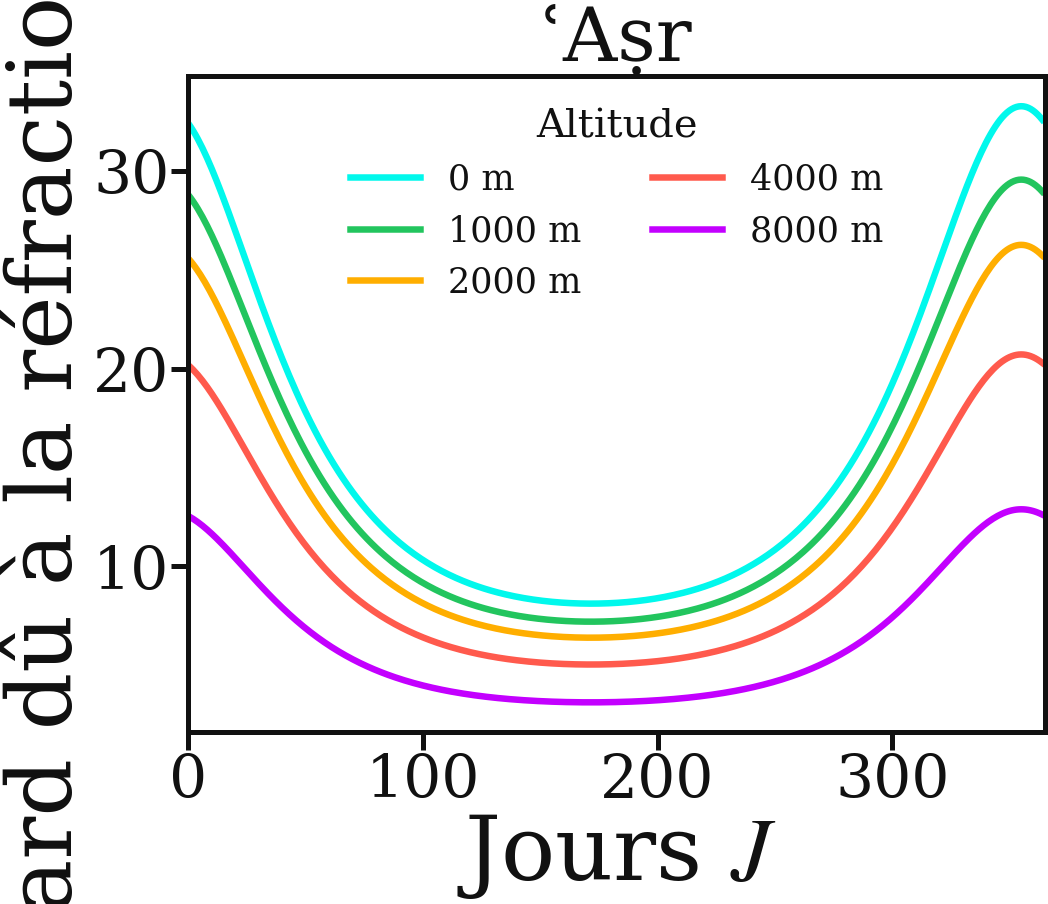
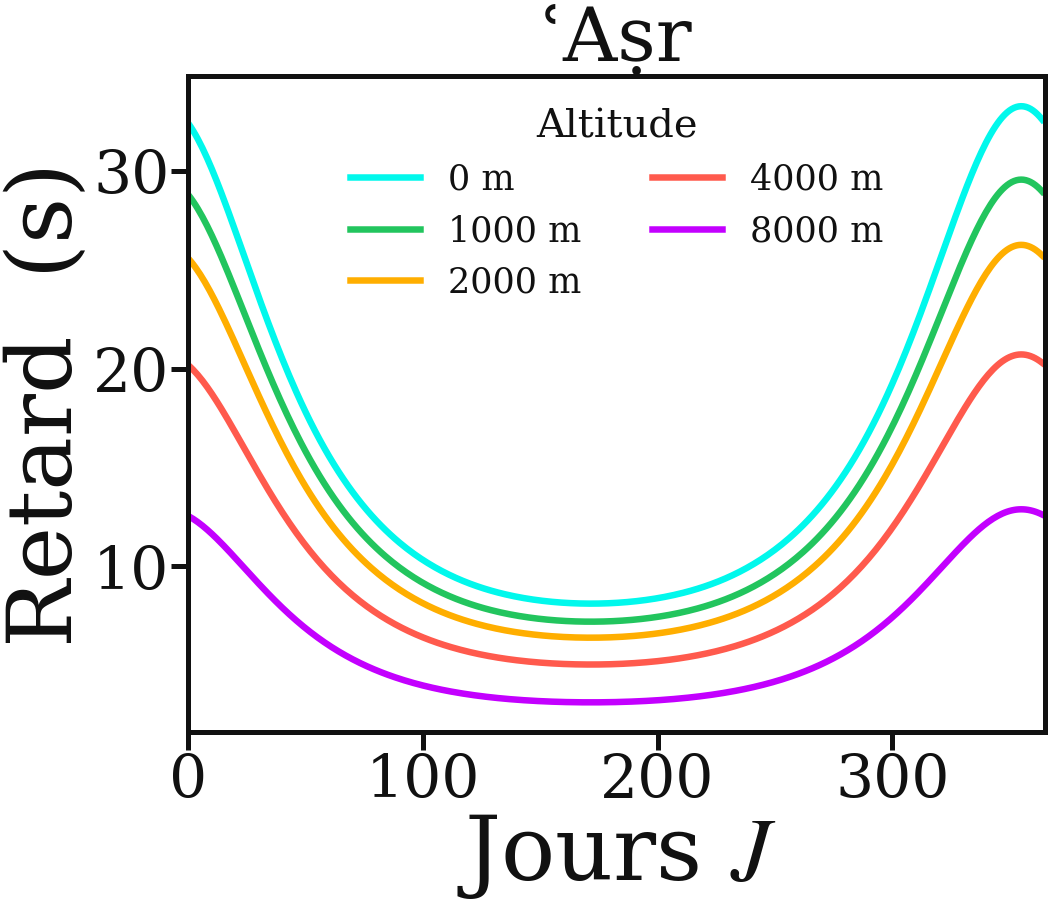
Graphe ʿAṣr : raccourcit le label d'axe y en 'Retard (s)'

Changed region(s): [[0.0, 0.0, 0.0916, 0.8053], [0.0, 0.8363, 0.0916, 1.0]]

diff --git a/scripts/figures/refraction_prieres.py b/scripts/figures/refraction_prieres.py
@@ -104,7 +104,7 @@ def make(prayer, dark):
         # (moins de pression → moins de réfraction).
         for alt, col in zip(ALTITUDES, COLS):
             ax.plot(N, asr_delay_seconds(alt), color=col, label=f"{alt} m")
-        ax.set_ylabel(r"retard dû à la réfraction  (s)")
+        ax.set_ylabel(r"Retard  (s)")
     else:
         for alt, col in zip(ALTITUDES, COLS):
             ax.plot(N, times(prayer, alt), color=col, label=f"{alt} m")